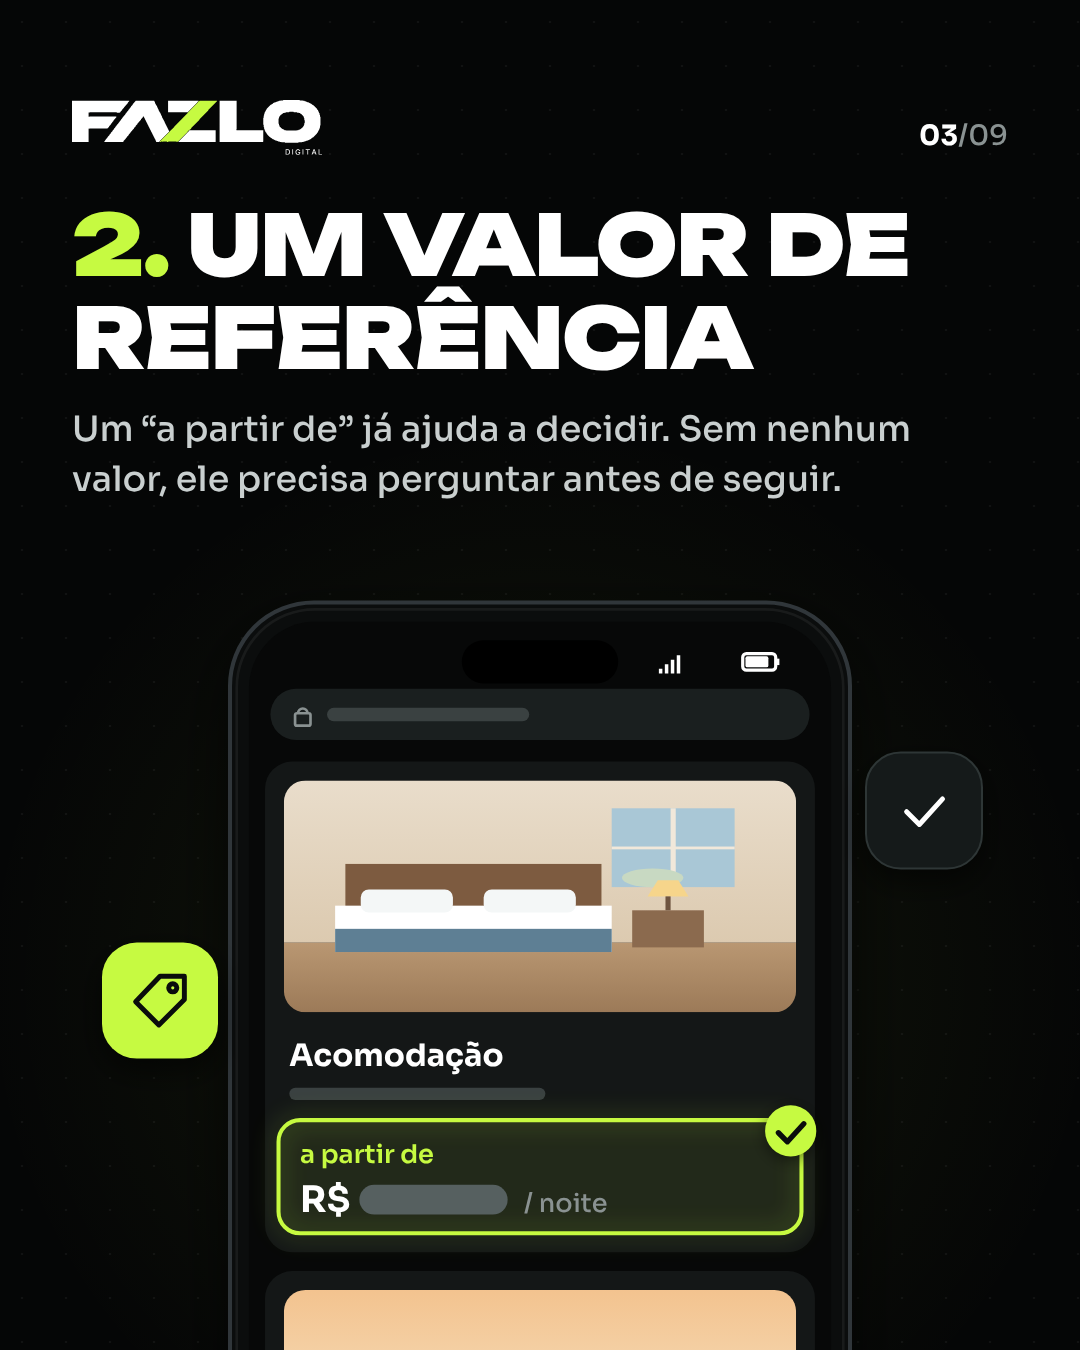
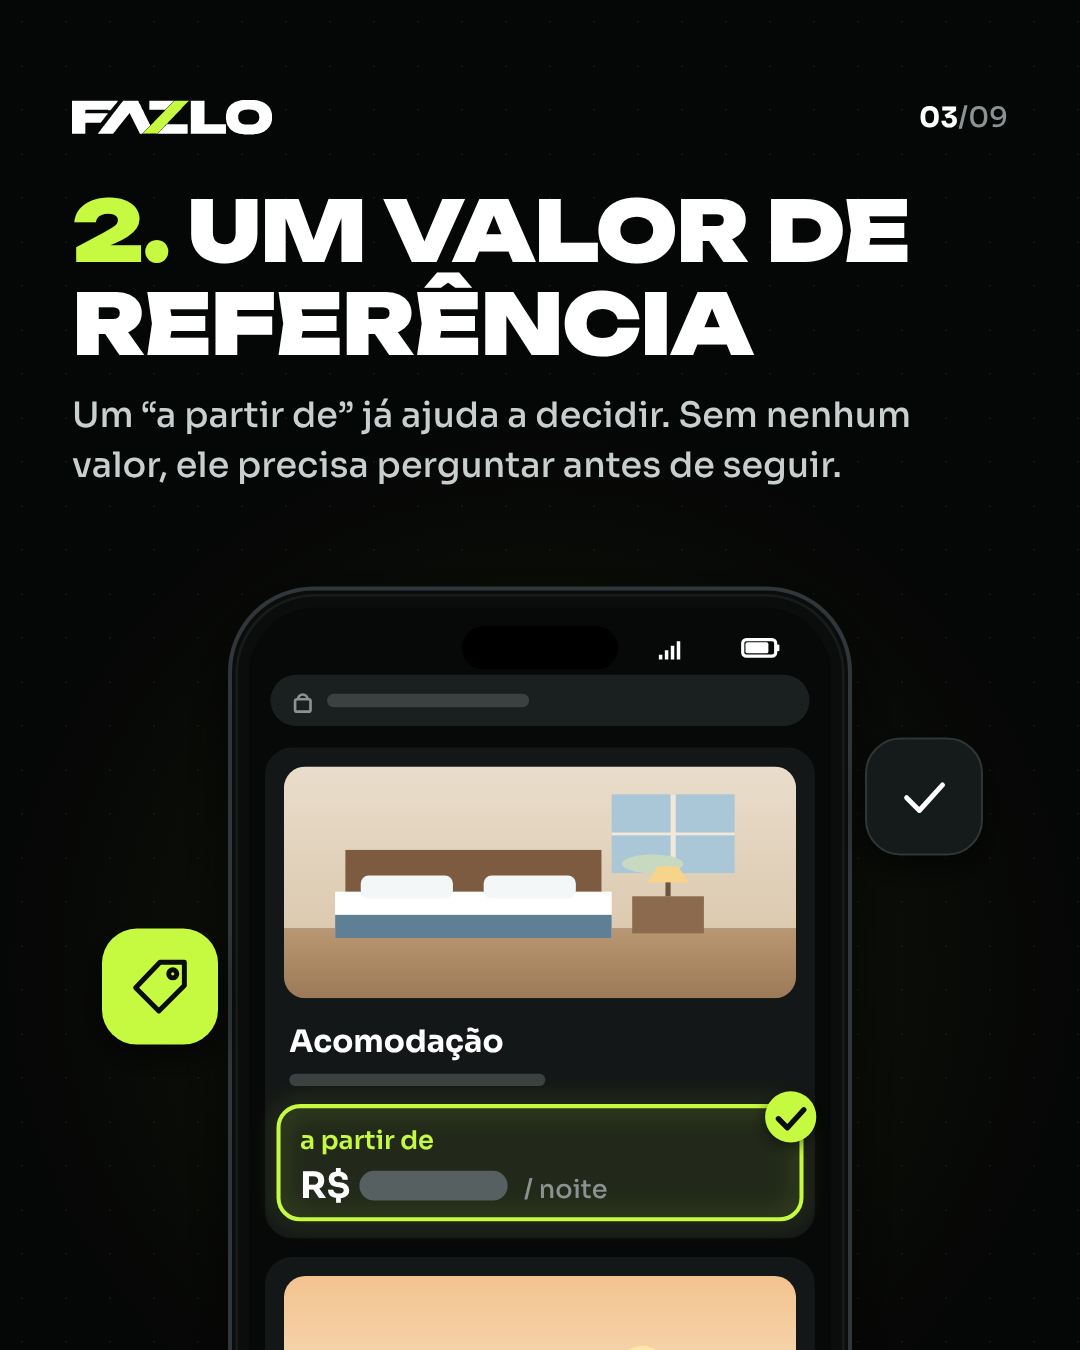
Carrossel "O que o hóspede procura": ajustes da prévia
- Slide 05: passeios Cachoeira, Trilha, Mirante (Serra da Canastra e
  Capitólio); o mapa troca a orla por rio e represa
- Logo: FAZLO DIGITAL com 360 px na capa e no fechamento (DIGITAL
  legível); FAZLO compacta (kit) com 200 px nos slides 02–08
- Área externa com árvore de copa redonda em vez de coqueiro
- READMEs e status: ajustes aplicados, aguardando aprovação final

Claude-Session: https://claude.ai/code/session_0166SwWybyXQNx2uznYVUJ6n

diff --git a/carrosseis/o-que-o-hospede-procura/src/slides.js b/carrosseis/o-que-o-hospede-procura/src/slides.js
@@ -198,14 +198,14 @@
         c.fillStyle = '#7A5C44'; c.fillRect(0, h * 0.9, w, h * 0.1);
         break;
       }
-      case 'pool': {                                         // área externa com piscina
+      case 'pool': {                                         // área externa com piscina e árvore
         g('#A6DBE6', '#E8F3EE', 0, h * 0.45);
         c.fillStyle = '#E9DCC6'; c.fillRect(0, h * 0.45, w, h * 0.55);
         c.fillStyle = '#4FB6C8'; c.beginPath(); c.roundRect(w * 0.12, h * 0.55, w * 0.76, h * 0.32, 10); c.fill();
         c.strokeStyle = 'rgba(255,255,255,0.7)'; c.lineWidth = 2;
         for (let i = 0; i < 3; i++) { c.beginPath(); for (let xx = w * 0.16; xx <= w * 0.84; xx += 6) c.lineTo(xx, h * (0.63 + 0.08 * i) + Math.sin(xx * 0.08 + i) * 2); c.stroke(); }
-        c.strokeStyle = '#2F6B4F'; c.lineWidth = 4; c.beginPath(); c.moveTo(w * 0.86, h * 0.5); c.quadraticCurveTo(w * 0.84, h * 0.3, w * 0.9, h * 0.14); c.stroke();
-        c.fillStyle = '#2F6B4F'; for (let i = 0; i < 4; i++) { c.save(); c.translate(w * 0.9, h * 0.14); c.rotate(-1.4 + i * 0.7); c.beginPath(); c.ellipse(w * 0.07, 0, w * 0.08, h * 0.03, 0, 0, TAU); c.fill(); c.restore(); }
+        c.strokeStyle = '#6B5340'; c.lineWidth = Math.max(3, w * 0.012); c.beginPath(); c.moveTo(w * 0.9, h * 0.52); c.quadraticCurveTo(w * 0.86, h * 0.36, w * 0.91, h * 0.24); c.stroke();   // árvore de copa redonda (serra, não praia)
+        c.fillStyle = '#3F7350'; [[0.86, 0.2, 0.07], [0.93, 0.17, 0.065], [0.9, 0.1, 0.06]].forEach(([a1, b1, r1]) => { c.beginPath(); c.arc(w * a1, h * b1, Math.min(w, h * 2) * r1, 0, TAU); c.fill(); });
         break;
       }
       default: {                                             // fachada / área comum
@@ -217,13 +217,15 @@
     }
     c.restore();
   }
-  // mapa abstrato: ruas, orla, parque, o pin da pousada e as rotas até os passeios
+  // mapa abstrato: ruas, rio, represa, mata, o pin da pousada e as rotas até os passeios
   function mapArt(c, x, y, w, h, pois) {
     c.save(); rrect(c, x, y, w, h, 14); c.clip(); c.translate(x, y);
     c.fillStyle = '#182020'; c.fillRect(0, 0, w, h);
-    c.fillStyle = '#16343C'; c.beginPath(); c.moveTo(w * 0.72, 0); c.quadraticCurveTo(w * 0.62, h * 0.5, w * 0.8, h); c.lineTo(w, h); c.lineTo(w, 0); c.fill();
+    c.strokeStyle = '#16343C'; c.lineWidth = Math.max(10, h * 0.08); c.lineCap = 'round';
+    c.beginPath(); c.moveTo(w * 0.6, -12); c.bezierCurveTo(w * 0.8, h * 0.22, w * 0.62, h * 0.48, w * 0.84, h * 0.72); c.stroke();
+    c.fillStyle = '#16343C'; c.beginPath(); c.ellipse(w * 0.9, h * 0.88, w * 0.2, h * 0.24, -0.35, 0, TAU); c.fill();
     c.strokeStyle = 'rgba(120,190,205,0.35)'; c.lineWidth = 1.5;
-    for (let i = 0; i < 3; i++) { c.beginPath(); c.moveTo(w * (0.8 + i * 0.06), h * 0.05); c.quadraticCurveTo(w * (0.7 + i * 0.06), h * 0.5, w * (0.86 + i * 0.05), h * 0.95); c.stroke(); }
+    for (let i = 0; i < 3; i++) { c.beginPath(); c.ellipse(w * 0.9, h * 0.88, w * (0.06 + 0.045 * i), h * (0.07 + 0.05 * i), -0.35, Math.PI * 1.05, Math.PI * 1.6); c.stroke(); }
     c.fillStyle = '#1C3324'; c.beginPath(); c.ellipse(w * 0.2, h * 0.24, w * 0.12, h * 0.16, 0.3, 0, TAU); c.fill(); c.beginPath(); c.ellipse(w * 0.36, h * 0.84, w * 0.1, h * 0.12, -0.2, 0, TAU); c.fill();
     c.strokeStyle = '#2E3838'; c.lineWidth = 7; c.lineCap = 'round';
     [[0, 0.55, 0.7, 0.42], [0.18, 0, 0.3, 1], [0.48, 0, 0.56, 1], [0, 0.2, 0.64, 0.12], [0.05, 0.9, 0.7, 0.78]].forEach(([a, b, cc, d]) => { c.beginPath(); c.moveTo(w * a, h * b); c.lineTo(w * cc, h * d); c.stroke(); });
@@ -241,35 +243,40 @@
     c.restore();
   }
 
-  // ---------------------------------------------------------------- logo oficial (SVG do kit, intacto)
-  let LOGO = null;
-  function loadLogo() {
-    const x = new XMLHttpRequest(); x.open('GET', '/brand/logo/kit/FAZLO-DIGITAL-branca-transparente.svg', false); x.send();
+  // ---------------------------------------------------------------- logo oficial (SVGs do kit, intactos)
+  // full = FAZLO DIGITAL (capa e fechamento); compact = FAZLO sem "DIGITAL" (aplicações pequenas, itens)
+  const LOGOS = {};
+  function loadLogo(key, file) {
+    const x = new XMLHttpRequest(); x.open('GET', `/brand/logo/kit/${file}`, false); x.send();
     const doc = new DOMParser().parseFromString(x.responseText, 'image/svg+xml');
-    const paths = [...doc.querySelectorAll('path')].map((p) => ({ fill: p.getAttribute('fill'), path: new Path2D(p.getAttribute('d')), d: p.getAttribute('d') }));
-    const nums = paths.flatMap((p) => p.d.match(/-?\d+\.?\d*/g).map(Number));
-    const xs = nums.filter((_, i) => i % 2 === 0), ys = nums.filter((_, i) => i % 2 === 1);
-    LOGO = { paths, x0: Math.min(...xs), x1: Math.max(...xs), y0: Math.min(...ys), y1: Math.max(...ys) };
+    const paths = [...doc.querySelectorAll('path')].map((p) => {
+      const d = p.getAttribute('d'), n = d.match(/-?\d+\.?\d*/g).map(Number);
+      const xs = n.filter((_, i) => i % 2 === 0), ys = n.filter((_, i) => i % 2 === 1);
+      return { fill: p.getAttribute('fill'), path: new Path2D(d), x0: Math.min(...xs), x1: Math.max(...xs), y0: Math.min(...ys), y1: Math.max(...ys) };
+    });
+    const box = (ps) => ({ x0: Math.min(...ps.map((p) => p.x0)), x1: Math.max(...ps.map((p) => p.x1)), y0: Math.min(...ps.map((p) => p.y0)), y1: Math.max(...ps.map((p) => p.y1)) });
+    LOGOS[key] = { paths, all: box(paths), letters: box(paths.slice(0, 2)) };    // 1º traçado = letras, 2º = barra lima
   }
-  // logo com largura w (do desenho, sem margens do arquivo) a partir de (x, y) = canto superior esquerdo
-  function drawLogo(c, x, y, w) {
-    const s = w / (LOGO.x1 - LOGO.x0);
-    c.save(); c.translate(x - LOGO.x0 * s, y - LOGO.y0 * s); c.scale(s, s);
-    LOGO.paths.forEach((p) => { c.fillStyle = p.fill; c.fill(p.path, 'evenodd'); });
+  // logo com largura w (do desenho, sem as margens do arquivo) a partir do canto superior esquerdo (x, y)
+  function drawLogo(c, key, x, y, w) {
+    const L = LOGOS[key], s = w / (L.all.x1 - L.all.x0);
+    c.save(); c.translate(x - L.all.x0 * s, y - L.all.y0 * s); c.scale(s, s);
+    L.paths.forEach((p) => { c.fillStyle = p.fill; c.fill(p.path, 'evenodd'); });
     c.restore();
-    return (LOGO.y1 - LOGO.y0) * s;
+    return { h: (L.all.y1 - L.all.y0) * s, letters: (L.letters.y1 - L.letters.y0) * s };
   }
 
   // ---------------------------------------------------------------- estrutura comum
-  const LOGO_W = 250, HEAD_Y = 100;                   // topo abaixo do contador nativo do Instagram
+  const HEAD_Y = 100;                                  // topo abaixo do contador nativo do Instagram
+  const LOGO_FULL_W = 360, LOGO_COMPACT_W = 200;      // FAZLO DIGITAL legível na capa e no fecho; FAZLO nos itens
   function background(c) {
     c.fillStyle = C.bg; c.fillRect(0, 0, W, H);
     c.fillStyle = 'rgba(255,255,255,0.05)';
     for (let y = 22; y < H; y += 44) for (let x = 22; x < W; x += 44) { c.beginPath(); c.arc(x, y, 1.3, 0, TAU); c.fill(); }
   }
-  function header(c, n) {
-    const lh = drawLogo(c, M, HEAD_Y, LOGO_W);
-    const by = HEAD_Y + lh * 0.62 + 11;                 // alinhado ao miolo das letras FAZLO
+  function header(c, n, full = false) {
+    const lg = full ? drawLogo(c, 'full', M, HEAD_Y, LOGO_FULL_W) : drawLogo(c, 'compact', M, HEAD_Y, LOGO_COMPACT_W);
+    const by = HEAD_Y + lg.letters / 2 + 10;            // contador alinhado ao miolo das letras FAZLO
     const tot = `/${String(N).padStart(2, '0')}`;
     const wt = measure(tot, 28, 500);
     text(c, tot, W - M, by, { size: 28, weight: 500, color: C.muted, align: 'right' });
@@ -322,7 +329,7 @@
   function itemSlide(c, n, lines, body, screen, chips) {
     background(c);
     header(c, n);
-    const y1 = 214 + S_ITEM * 0.74;                    // linha de base do título
+    const y1 = 200 + S_ITEM * 0.74;                    // linha de base do título
     const yl = title(c, lines, M, y1, S_ITEM, { lime: [lines[0].split(' ')[0]] });
     const bl = wrap(body, 35, 500, W - 2 * M);
     bl.forEach((s, i) => text(c, s, M, yl + 72 + i * 50, { size: 35, weight: 500, color: C.soft }));
@@ -402,10 +409,10 @@
     const x = 12, y = T0, w = SW - 24, h = 430;
     card(c, x, y, w, h, true);
     text(c, 'Localização', x + 18, y + 38, { size: 22, weight: 700, color: C.white });
-    mapArt(c, x + 12, y + 54, w - 24, 196, [{ x: 0.86, y: 0.3, ic: 'wave' }, { x: 0.12, y: 0.18, ic: 'leaf' }, { x: 0.22, y: 0.84, ic: 'drop' }]);
+    mapArt(c, x + 12, y + 54, w - 24, 196, [{ x: 0.72, y: 0.2, ic: 'drop' }, { x: 0.12, y: 0.18, ic: 'leaf' }, { x: 0.22, y: 0.84, ic: 'view' }]);
     card(c, x, y + h + 14, w, 260, false);
     photo(c, 'pool', x + 14, y + h + 28, w - 28, 200);
-    [['wave', 'Praia'], ['leaf', 'Trilha'], ['drop', 'Cachoeira']].forEach(([ic, lb], i) => {
+    [['drop', 'Cachoeira'], ['leaf', 'Trilha'], ['view', 'Mirante']].forEach(([ic, lb], i) => {
       const ry = y + 266 + i * 52;
       c.beginPath(); c.arc(x + 36, ry + 18, 18, 0, TAU); c.fillStyle = C.card2; c.fill();
       icon(c, ic, x + 36, ry + 18, 24, C.soft, 0.1);
@@ -480,7 +487,7 @@
     B[0] = [cx, cy];
     // 4 onde fica
     const my = cy + ph1 + 10 + th + G;
-    mapArt(c, cx, my, lw, cy + CH - my, [{ x: 0.85, y: 0.3, ic: 'wave' }, { x: 0.14, y: 0.24, ic: 'leaf' }, { x: 0.3, y: 0.82, ic: 'drop' }]);
+    mapArt(c, cx, my, lw, cy + CH - my, [{ x: 0.72, y: 0.24, ic: 'drop' }, { x: 0.14, y: 0.24, ic: 'leaf' }, { x: 0.3, y: 0.82, ic: 'view' }]);
     B[3] = [cx, my];
     // coluna da direita: 2 valor, 3 vaga, 5 incluso, 6 regras, 7 reservar
     const hs = [0.205, 0.285, 0.145, 0.145], hk = CH - 4 * G - hs.reduce((a, v) => a + Math.round(CH * v), 0);
@@ -548,16 +555,16 @@
   function slideCover(c) {
     background(c);
     glow(c, 540, 900, 620, 0.08);
-    header(c, 1);
-    const yl = title(c, L_COVER, M, 238 + S_COVER * 0.74, S_COVER, { lh: 1.08, lime: ['ANTES', 'DE', 'RESERVAR'] });
+    header(c, 1, true);
+    const yl = title(c, L_COVER, M, 266 + S_COVER * 0.74, S_COVER, { lh: 1.08, lime: ['ANTES', 'DE', 'RESERVAR'] });
     coverBrowser(c, Math.round(yl + 86));
     footer(c, ['bookmark'], 'Salve para revisar a sua pousada', 1278);
   }
   function slideEnd(c) {
     background(c);
     glow(c, 540, 820, 600, 0.07);
-    header(c, 9);
-    const yl = title(c, L_END, M, 222 + S_END * 0.74, S_END, { lh: 1.1, lime: ['ONLINE?'] });
+    header(c, 9, true);
+    const yl = title(c, L_END, M, 248 + S_END * 0.74, S_END, { lh: 1.1, lime: ['ONLINE?'] });
     // checklist para revisar a própria pousada
     const x = M, y = yl + 56, w = W - 2 * M, rh = 60, h = CHECK.length * rh + 28;
     fillR(c, x, y, w, h, 24, C.card);
@@ -584,7 +591,8 @@
     width: W,
     height: H,
     setup() {
-      loadLogo();
+      loadLogo('full', 'FAZLO-DIGITAL-branca-transparente.svg');
+      loadLogo('compact', 'FAZLO-logo-branca-transparente.svg');
       S_ITEM = Math.min(84, ...ITEMS.map((it) => fit(it.lines, 900, W - 2 * M, 100)));
       L_COVER = ['O QUE O HÓSPEDE', 'PROCURA ANTES', 'DE RESERVAR'];
       S_COVER = fit(L_COVER, 900, W - 2 * M, 120);

diff --git a/carrosseis/o-que-o-hospede-procura/README.md b/carrosseis/o-que-o-hospede-procura/README.md
@@ -2,7 +2,7 @@
 
 Carrossel da @fazlodigital. Peça estática: **9 slides PNG 1080×1350 (4:5)**.
 
-**Status: prévia · aguardando aprovação.**
+**Status: ajustes aplicados · aguardando aprovação final.**
 
 🖼 **Prévia:** [`output/previa.jpg`](output/previa.jpg) · Slides: [`output/01.png`](output/01.png) … [`output/09.png`](output/09.png) · Revisão: [`output/revisao/`](output/revisao)
 
@@ -26,7 +26,7 @@ São as 7 informações que o hóspede procura antes de reservar. Cada uma apare
 | 02 | **1. FOTOS DE CADA QUARTO** | Não só a piscina. Ele quer ver onde vai dormir: cama, banheiro, vista. | galeria com a aba "Quartos" ativa (Piscina e Área comum ao lado), foto grande do quarto, miniaturas Cama, Banheiro e Vista |
 | 03 | **2. UM VALOR DE REFERÊNCIA** | Um "a partir de" já ajuda a decidir. Sem nenhum valor, ele precisa perguntar antes de seguir. | card da acomodação com o bloco "a partir de · R$ ▬ / noite" em destaque |
 | 04 | **3. SE TEM VAGA** | Escolher entrada e saída e ter resposta na hora. | campos **Entrada** e **Saída** preenchidos, botão **Consultar disponibilidade** e a resposta "Disponível para as datas escolhidas", **sem calendário aberto** |
-| 05 | **4. ONDE FICA** | Mapa e distância até os passeios que ele veio fazer. | mapa ilustrado com o pin da pousada e rotas até os passeios; lista Praia, Trilha, Cachoeira com a distância como barra + "km" |
+| 05 | **4. ONDE FICA** | Mapa e distância até os passeios que ele veio fazer. | mapa ilustrado (ruas, rio, represa, mata) com o pin da pousada e rotas até os passeios; lista **Cachoeira, Trilha, Mirante** (público da Serra da Canastra e de Capitólio) com a distância como barra + "km" |
 | 06 | **5. O QUE ESTÁ INCLUSO** | Café da manhã, estacionamento, Wi-Fi, ar-condicionado: tudo à vista. | grade com os 4 itens, cada um com ícone e ✓ |
 | 07 | **6. AS REGRAS** | Check-in, check-out, crianças, pets. O que ele pergunta antes de fechar. | "Regras da hospedagem": Check-in, Check-out, Crianças, Pets, com os valores como barras |
 | 08 | **7. COMO RESERVAR** | Um botão claro. Sem precisar caçar o WhatsApp. | botão **Reservar** grande, em lima, com o toque |
@@ -47,12 +47,26 @@ A identidade é a mesma do Reel "Instagram não é site":
 - **Tipografia:**
   - **Unbounded** 900 nos títulos e nos números;
   - **Sora** nos textos (35 px), nas telas e nos rodapés.
-- **Topo:**
-  - logo **FAZLO DIGITAL** do kit oficial (SVG intacto) à esquerda, com 250 px de largura;
-  - contador "01/09" no canto direito, com o número em branco e o total em cinza.
+- **Topo (SVGs do kit oficial, intactos), com a logo à esquerda e o contador "01/09" à direita (número em branco, total em cinza):**
+  - **capa e fechamento:** **FAZLO DIGITAL** com 360 px de largura. O "DIGITAL" fica com cerca de 8 px de altura no arquivo, legível no celular;
+  - **itens (02–08):** a versão compacta **FAZLO** (`FAZLO-logo-branca-transparente.svg`, sem o "DIGITAL"), com 200 px. É a versão que o kit indica para aplicações pequenas.
+- **Ilustrações:** quarto, banheiro, vista da serra e área externa com piscina e árvore de copa redonda, em vez de coqueiro, para combinar com a serra.
 - **Telas:** a seção que responde ao item tem contorno lima, brilho e selo ✓. Abaixo dela aparece o próximo bloco do site, cortado pela borda do slide, sugerindo rolagem.
 - **Elementos vivos:** chips com ícones em volta do celular, ligados a cada item (cama, banheira, vista; etiqueta; calendário e relógio; pin e mapa; café, Wi-Fi, carro; criança e pata; cursor).
 - **Celular:** tem a mesma largura e o mesmo centro em todos os itens. Nos slides de texto curto ele sobe, para não deixar uma faixa vazia.
+
+## Ajustes aprovados
+
+Ajustes da primeira prévia:
+
+- **Passeios do slide 05:** "Praia, Trilha, Cachoeira" virou "Cachoeira, Trilha, Mirante". O mapa trocou a orla por rio e represa.
+- **Logo:** FAZLO DIGITAL com 360 px na capa e no fechamento, e FAZLO compacta com 200 px nos itens.
+- **Aprovados sem mudança:**
+  - abas "Quartos / Piscina / Área comum";
+  - "Disponível para as datas escolhidas";
+  - checklist do slide 09;
+  - palavras em lima;
+  - topo mais baixo por causa do contador do Instagram.
 
 ## Revisão
 

diff --git a/README.md b/README.md
@@ -2,7 +2,7 @@
 
 Produção dos Reels do Instagram da **FAZLO Digital**: motion graphics 9:16 animados em código, renderizados quadro a quadro e com trilha e efeitos sintetizados e sincronizados à imagem. Também os **carrosséis** estáticos do feed, desenhados com o mesmo código e a mesma identidade ([`carrosseis/`](carrosseis)).
 
-> **Status:** **Reel 00 · "Da ideia ao digital."**, **Reel 001 · "Seu negócio já é bom. Seu digital precisa parecer isso."**, **Reel 002 · "Muito além de um site."**, **Reel 003 · "Ideias que ganham forma."** e **"Instagram não é site."** concluídos e em avaliação ([`reels/`](reels)). Carrossel **"O que o hóspede procura antes de reservar"** em prévia, aguardando aprovação ([`carrosseis/`](carrosseis)). Identidade audiovisual em [`brand/`](brand): kit oficial de logos em SVG (com o símbolo FZ corrigido), verde-limão `#C6FA41`, fontes Unbounded + Sora e assinatura sonora.
+> **Status:** **Reel 00 · "Da ideia ao digital."**, **Reel 001 · "Seu negócio já é bom. Seu digital precisa parecer isso."**, **Reel 002 · "Muito além de um site."**, **Reel 003 · "Ideias que ganham forma."** e **"Instagram não é site."** concluídos e em avaliação ([`reels/`](reels)). Carrossel **"O que o hóspede procura antes de reservar"** com ajustes aplicados, aguardando aprovação final ([`carrosseis/`](carrosseis)). Identidade audiovisual em [`brand/`](brand): kit oficial de logos em SVG (com o símbolo FZ corrigido), verde-limão `#C6FA41`, fontes Unbounded + Sora e assinatura sonora.
 
 ## Padrão de entrega
 

diff --git a/carrosseis/README.md b/carrosseis/README.md
@@ -4,7 +4,7 @@ Peças estáticas do feed da @fazlodigital. Cada carrossel vive numa pasta indep
 
 | Carrossel | Conceito | Slides | Status | Pasta |
 |---|---|---|---|---|
-| **"O que o hóspede procura antes de reservar"** | As 7 informações que o hóspede procura antes de reservar, cada uma numa mini tela de site no celular. A capa traz a página inteira numerada, e o fechamento um checklist para o dono revisar a própria pousada | 9 × 1080×1350 | prévia · aguardando aprovação | [`o-que-o-hospede-procura/`](o-que-o-hospede-procura) |
+| **"O que o hóspede procura antes de reservar"** | As 7 informações que o hóspede procura antes de reservar, cada uma numa mini tela de site no celular. A capa traz a página inteira numerada, e o fechamento um checklist para o dono revisar a própria pousada | 9 × 1080×1350 | ajustes aplicados · aguardando aprovação final | [`o-que-o-hospede-procura/`](o-que-o-hospede-procura) |
 
 ## Como funciona
 
